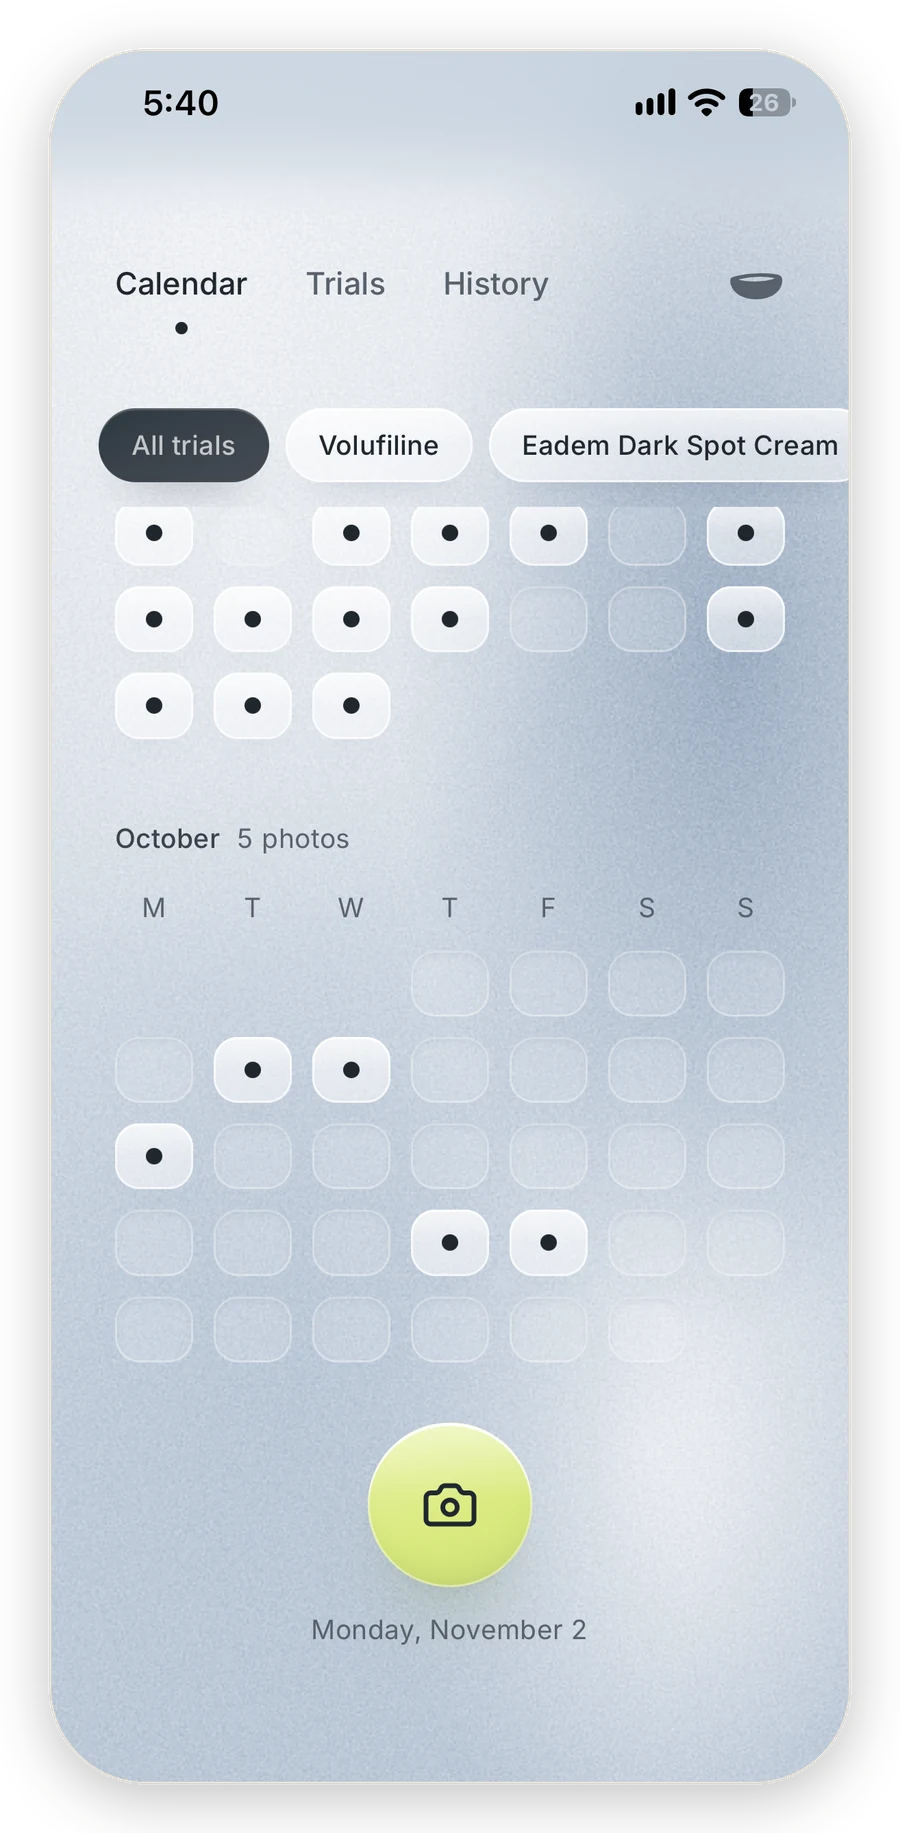
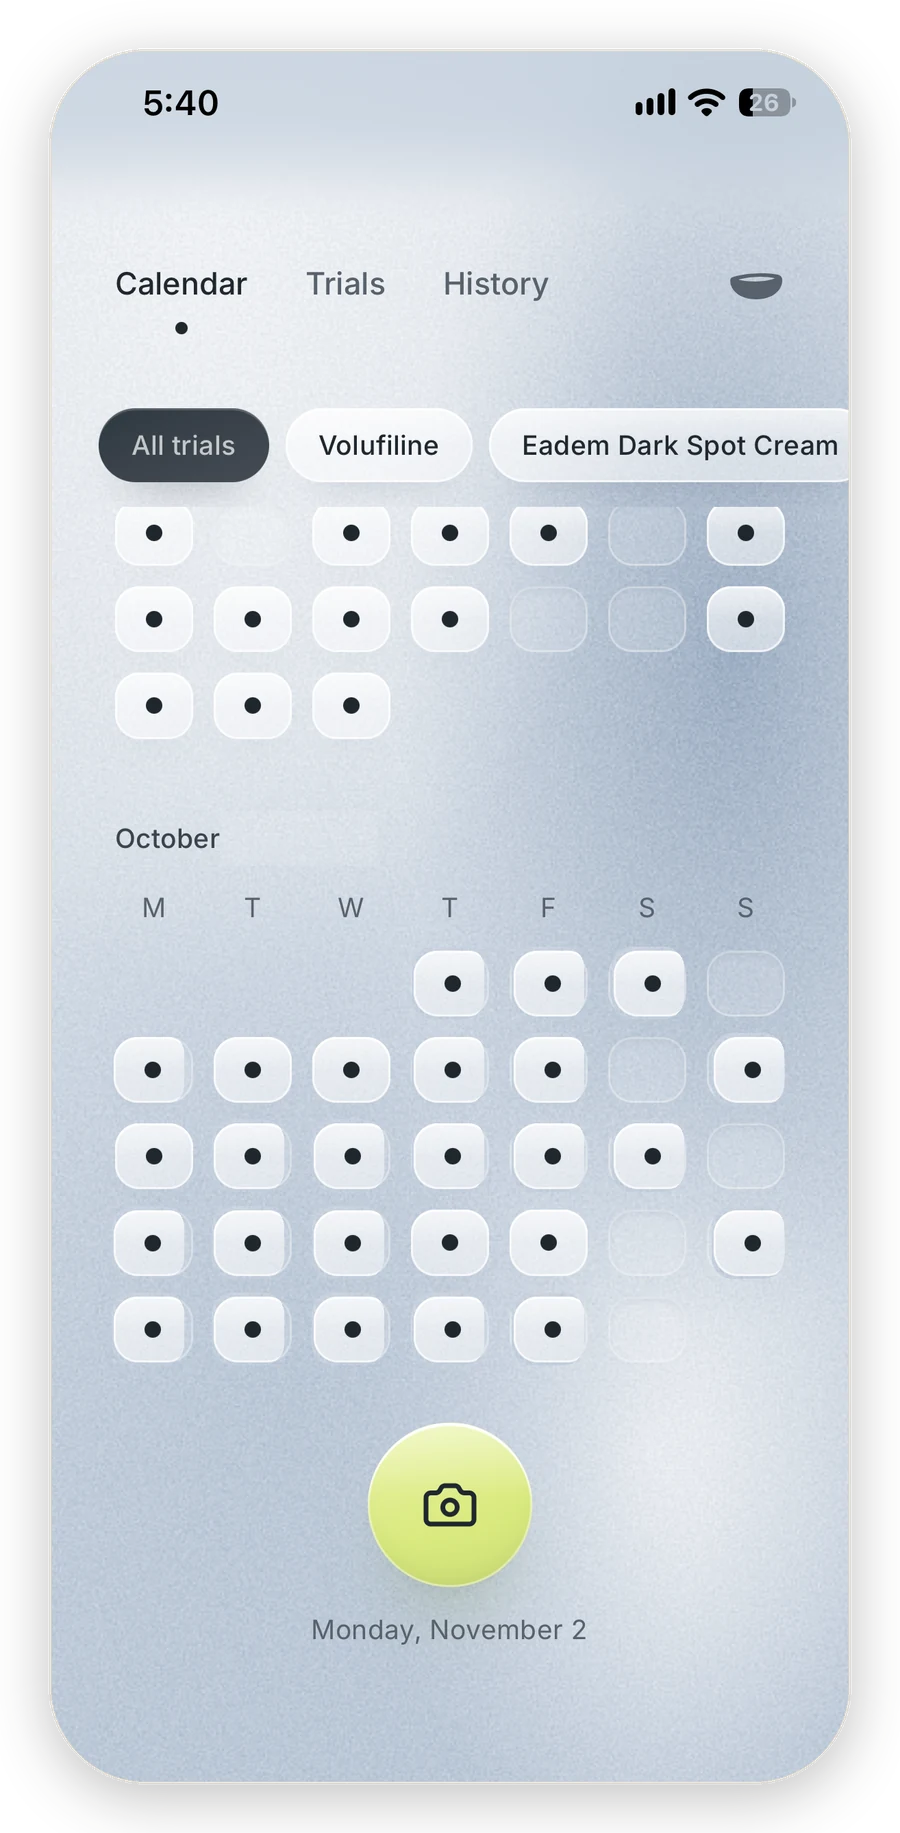
Case pages: a real type scale; Basin compare under the facts; fuller calendar
Heading 2rem for page titles, title 1.25rem for sections, lead 1.25rem
for the opener paragraphs, body 1rem/1.6, the facts list at meta in
ink-3. The compare moves up under the facts list. The calendar screen
is filled in for the case study (October dots added, the count removed).

Claude-Session: https://claude.ai/code/session_01NBddb5pAkaKNWRYsZwoGRY

diff --git a/src/app/tokens.css b/src/app/tokens.css
@@ -18,14 +18,20 @@
 
   --font-sans: var(--font-sans-var), ui-sans-serif, system-ui, sans-serif;
 
-  --text-display: 2.5rem;
-  --text-display--line-height: 1.1;
-  --text-display--letter-spacing: -0.02em;
-  --text-title: 1.5rem;
-  --text-title--line-height: 1.2;
+  --text-display: 2.75rem;
+  --text-display--line-height: 1.05;
+  --text-display--letter-spacing: -0.025em;
+  --text-heading: 2rem;
+  --text-heading--line-height: 1.15;
+  --text-heading--letter-spacing: -0.02em;
+  --text-title: 1.25rem;
+  --text-title--line-height: 1.3;
   --text-title--letter-spacing: -0.01em;
-  --text-body: 1.0625rem;
-  --text-body--line-height: 1.55;
+  --text-lead: 1.25rem;
+  --text-lead--line-height: 1.45;
+  --text-lead--letter-spacing: -0.005em;
+  --text-body: 1rem;
+  --text-body--line-height: 1.6;
   --text-meta: 0.8125rem;
   --text-meta--line-height: 1.4;
 

diff --git a/src/app/globals.css b/src/app/globals.css
@@ -115,3 +115,20 @@ p {
   background: var(--color-thread);
   box-shadow: 0 0 0 1px color-mix(in oklab, var(--color-thread) 60%, var(--color-ink));
 }
+
+/* Case study type. The opener (every paragraph before the first heading)
+   sits one step up from body, so the page starts with a voice and settles
+   into the gallery. The facts list stays meta-sized. */
+.case > p:not(h2 ~ p) {
+  font-size: var(--text-lead);
+  line-height: var(--text-lead--line-height);
+  letter-spacing: var(--text-lead--letter-spacing);
+  color: var(--color-ink);
+}
+.case > ul:first-child {
+  font-size: var(--text-meta);
+  line-height: var(--text-meta--line-height);
+  list-style: none;
+  padding-left: 0;
+  color: var(--color-ink-3);
+}

diff --git a/src/app/work/easy-care/page.tsx b/src/app/work/easy-care/page.tsx
@@ -17,12 +17,12 @@ export default function Page() {
         <Name as="p" />
       </nav>
       <header className="flex flex-col gap-2">
-        <h1 className="text-title font-medium text-ink">Easy Care</h1>
+        <h1 className="text-heading font-medium text-ink">Easy Care</h1>
         <p className="text-body text-ink-2">
           A year of your pet&apos;s preventive care, set up in one vet visit.
         </p>
       </header>
-      <article className="flex flex-col gap-6">
+      <article className="case flex flex-col gap-6">
         <Content />
       </article>
     </main>

diff --git a/src/app/work/basin/page.tsx b/src/app/work/basin/page.tsx
@@ -17,12 +17,12 @@ export default function Page() {
         <Name as="p" />
       </nav>
       <header className="flex flex-col gap-2">
-        <h1 className="text-title font-medium text-ink">Basin</h1>
+        <h1 className="text-heading font-medium text-ink">Basin</h1>
         <p className="text-body text-ink-2">
           A skincare companion app
         </p>
       </header>
-      <article className="flex flex-col gap-6" data-accent="lime">
+      <article className="case flex flex-col gap-6" data-accent="lime">
         <Content />
       </article>
     </main>

diff --git a/src/mdx-components.tsx b/src/mdx-components.tsx
@@ -22,7 +22,7 @@ const components: MDXComponents = {
   Clip,
   Lede,
   Steps,
-  h2: (props) => <h2 className="mt-8 text-title font-medium text-ink" {...props} />,
+  h2: (props) => <h2 className="mt-10 text-title font-medium text-ink" {...props} />,
   h3: (props) => <h3 className="mt-4 text-body font-medium text-ink" {...props} />,
   p: (props) => <p className="text-body text-ink-2" {...props} />,
   ul: (props) => <ul className="flex list-disc flex-col gap-1 pl-5 text-body text-ink-2" {...props} />,
